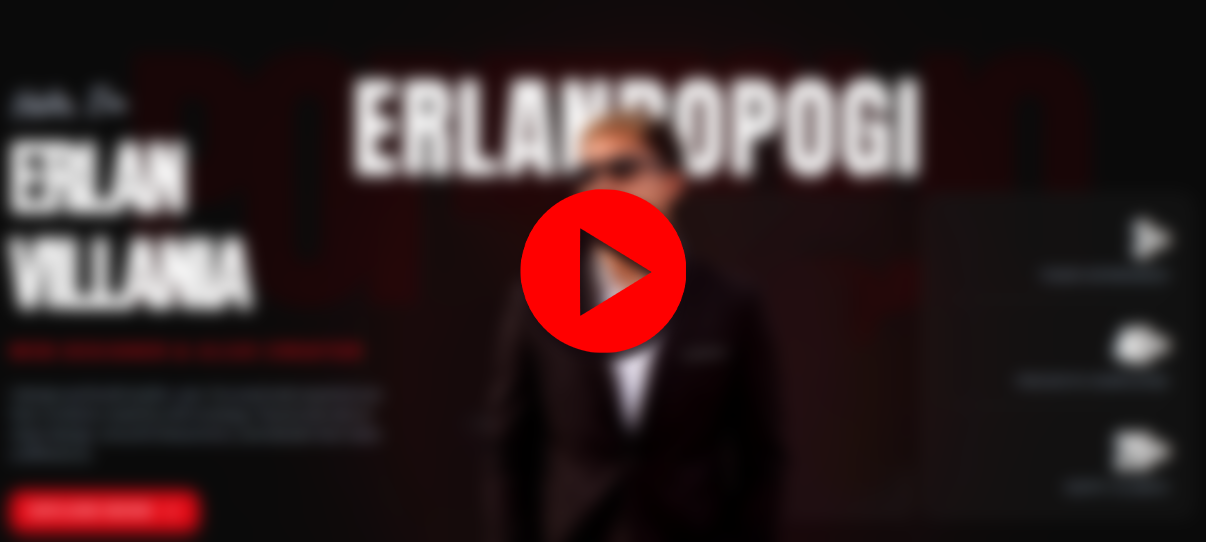
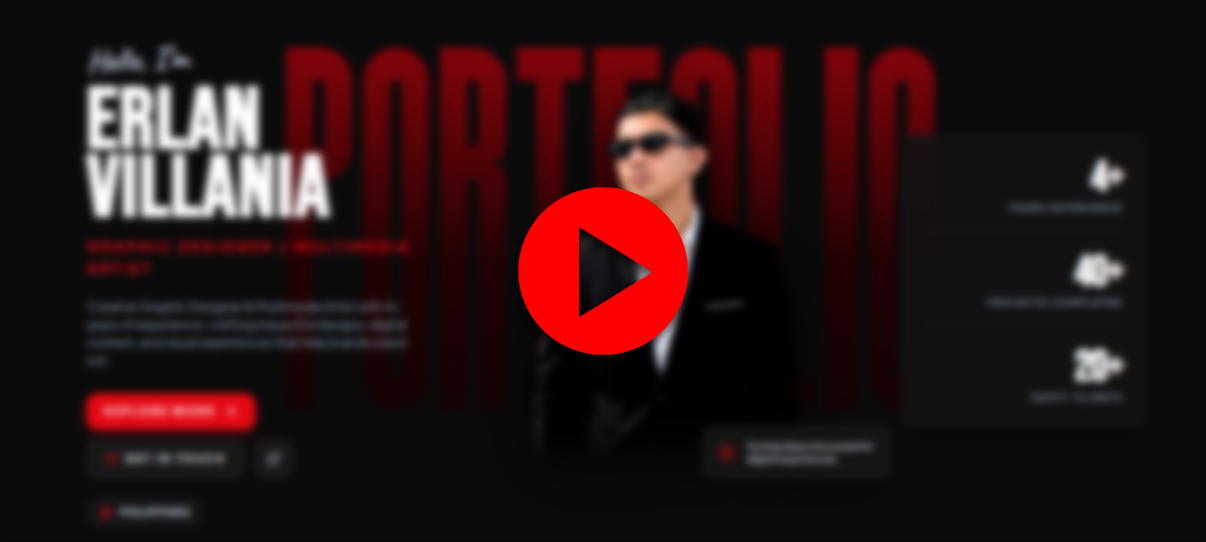
Update portfolio projects

diff --git a/index.html b/index.html
@@ -2,10 +2,10 @@
 <html lang="en" class="dark scroll-smooth">
   <head>
     <meta charset="UTF-8" />
-    <link rel="icon" type="image/svg+xml" href="https://a5.behance.net/20240321153401/img/branding/behance-logo.svg" />
+    <link rel="icon" type="image/png" href="/erlan-icon.png" />
     <meta name="viewport" content="width=device-width, initial-scale=1.0" />
     <title>ERLAN VILLANIA | GRAPHIC DESIGNER / MULTIMEDIA ARTIST</title>
-    <meta name="description" content="Portfolio of Erlan Villania - Graphic Designer, Multimedia Artist Creator featured on Behance." />
+    <meta name="description" content="Portfolio of Erlan Villania - Graphic Designer, Multimedia Artist." />
     
     <!-- Google Fonts: Oswald, Bebas Neue, Plus Jakarta Sans, Caveat (Script) -->
     <link rel="preconnect" href="https://fonts.googleapis.com">

diff --git a/src/data/portfolioData.js b/src/data/portfolioData.js
@@ -133,7 +133,7 @@ export const profileData = {
       number: "01",
 
       title: "CASINO GRAPHIC DESIGN",
-      category: "E-COMMERCE WEBSITE",
+      category: "CASINO POSTERS, BANNERS & SOCIAL MEDIA DESIGN",
       categoryLabel: "CASINO GRAPHIC DESIGN",
 
       // Main thumbnail shown in Selected Projects
